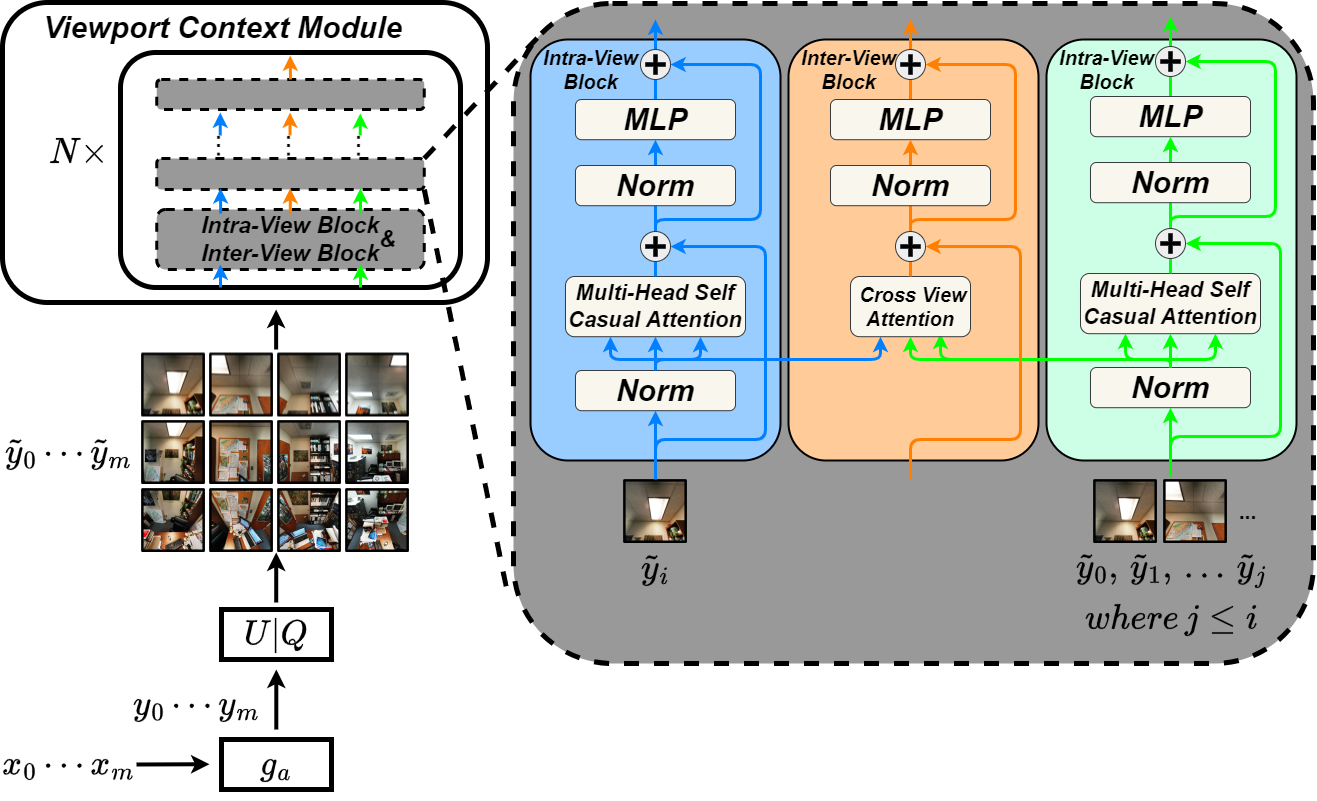
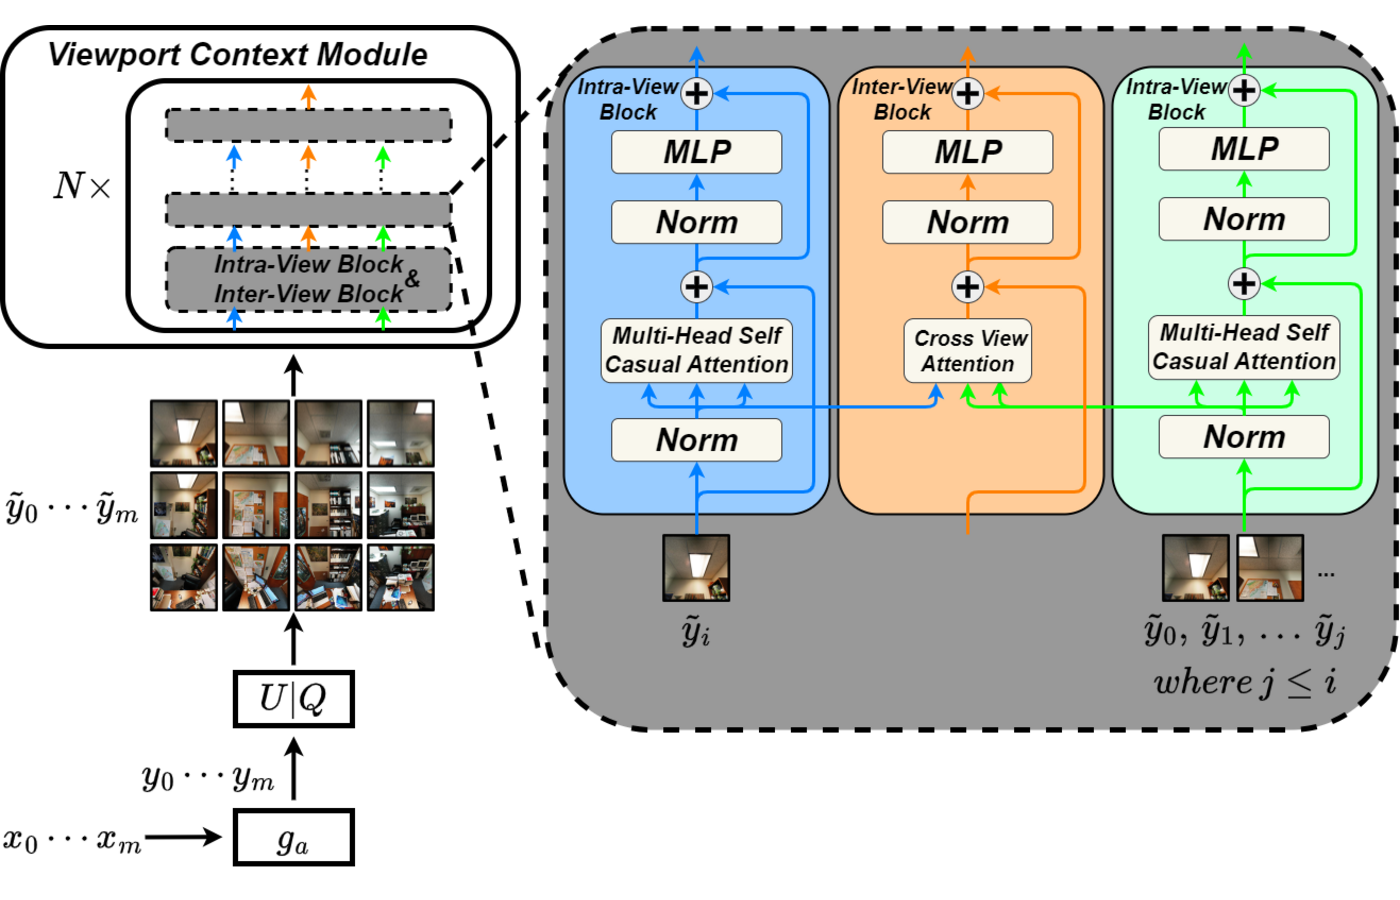
Update figure size

diff --git a/README.md b/README.md
@@ -11,7 +11,7 @@ This repository contains the code for our paper "Viewport-based Neural 360° Ima
 
 | Neural Viewport Codec | VPCT Module |
 | --- | --- |
-| <img src="./assets/vpct-General.png" alt="VPCT General" width="320" /> | <img src="./assets/overall_structure_of_vpct.png" alt="Overall Structure of VPCT" width="420" /> |
+| ![VPCT General](./assets/vpct-General.png) | ![Overall Structure of VPCT](./assets/overall_structure_of_vpct.png) |
 
 ## Performance Comparison
 
